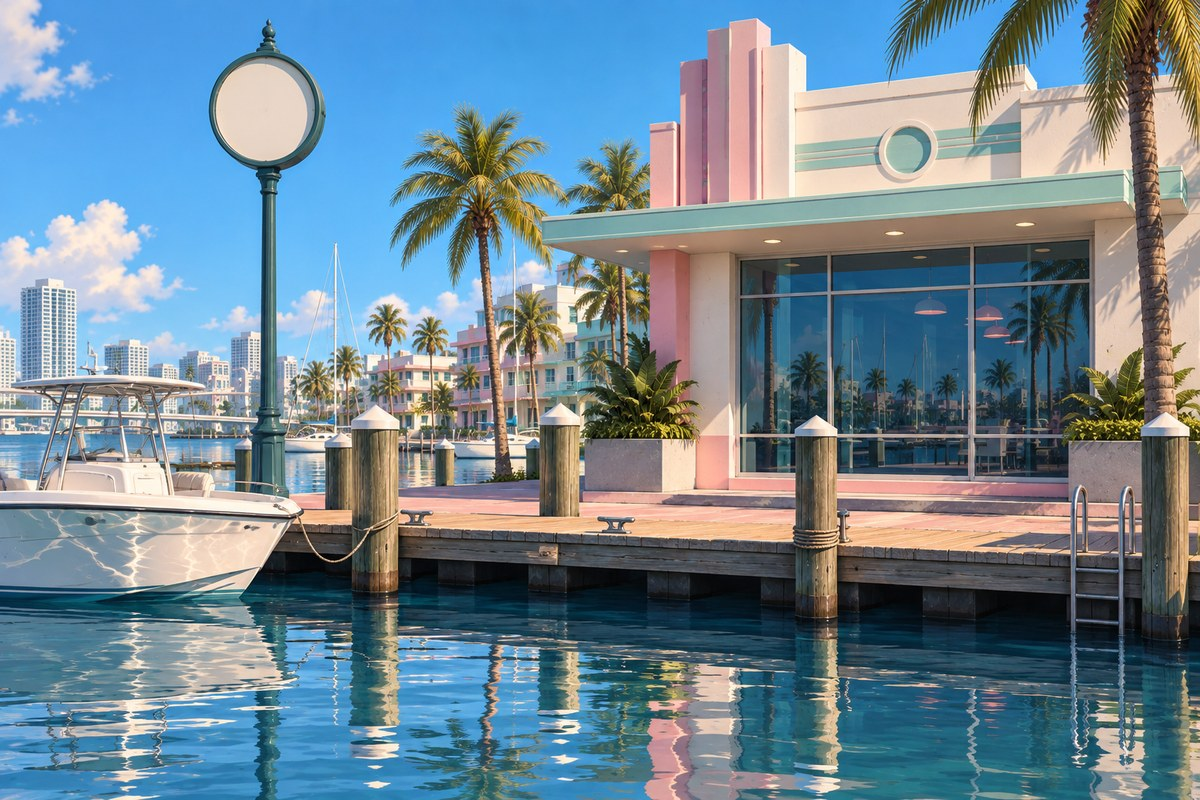
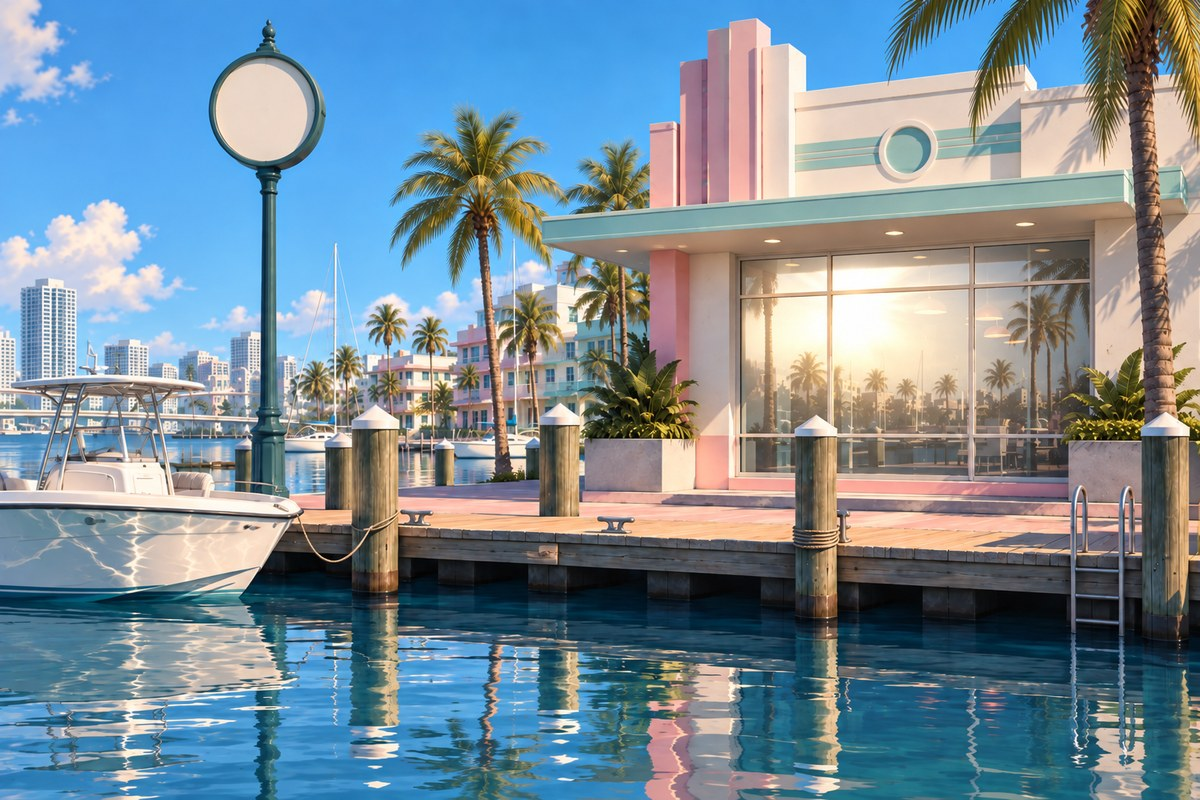
Put the sun on the marina window into the art instead of drawing it
The window was a white ball. A radial flare has no edges of its own, so at the
strength the level's mechanic needs it read as a lamp hanging off the front of
the building, and clipping it to the pane only turned it into a white ball with
a rectangle around it.

So the light is in the background now. The scene was regenerated from the
existing marina file as the reference, changing only the glass, which kept the
composition — every zone still lands where it was measured, checked against a
zone overlay on the new file. The evening pass goes over the whole frame and
then the pane is laid back down from the same file untouched, because a lit shop
window does not dim when the sky does.

The measurement the level turns on survives: the pane reads 0.83 mean luma
against 0.54 for the whole frame, so it is still the first thing in the
photograph to clip when the brightness comes up. Bench is 21/21 against the new
art. The glare helper has no callers left and is gone.

diff --git a/src/lib/levels/level3.ts b/src/lib/levels/level3.ts
@@ -19,20 +19,22 @@
  * Shapes are here as well as draw, because covering something is only cheap when
  * the colour you cover it with belongs in the photo.
  *
- * The glare pass matters mechanically. The window in the art is mid-toned, and
- * the cheapest solution needs it to be the first thing that clips when the whole
- * photo is brightened. So the glass is taken close to white and the ghost is set
- * just under it, close enough in tone that the two blow out together.
+ * The light on the glass matters mechanically, so it is painted into the
+ * background art rather than drawn on at runtime — a radial flare has no edges of
+ * its own and read as a lamp hanging off the front of the building. On the file
+ * the pane measures 0.83 mean luma against 0.54 for the whole frame, which is
+ * what the cheapest solution needs: brighten the photo and the glass is the first
+ * thing in it to clip. The ghost sits just under that, so the two go together.
  */
 
 import {
   backdrop,
-  glare,
   label,
   nightPass,
   place,
   placeFlipped,
   placeMirrored,
+  patch,
   reset,
   stamp,
   type Ctx,
@@ -53,7 +55,13 @@ const ZONES: ZoneMap = {
 /** His shape inside the glass — smaller, and set back into the window. */
 const GHOST = { x: 0.688, y: 0.345, w: 0.09, h: 0.165 };
 
-/** The glass itself, measured off the art. Light on a window stops at its frame. */
+/**
+ * The glass itself, measured off the art.
+ *
+ * The sun on this window is in the background art now rather than drawn on at
+ * runtime, which is the difference between a photograph of a lit window and a
+ * lamp stuck to the front of a building.
+ */
 const PANE = { x: 0.616, y: 0.3, w: 0.297, h: 0.3 };
 
 function composite(state: WorldState, ctx: Ctx) {
@@ -65,17 +73,14 @@ function composite(state: WorldState, ctx: Ctx) {
 
   nightPass(ctx, '#5a6699');
 
-  // Sun on the glass, then the ghost laid faintly over it.
-  //
-  // The tones here are chosen, not decorative. For the cheapest solution to work,
-  // raising the whole photo's brightness has to clip the glass *and* the shape in
-  // it at the same moment. Clipping at a lift of L needs both to sit above 1 - L,
-  // and the ghost still has to be visible at rest, so the pane is taken close to
-  // white and the ghost is set just under it — about a tenth of a stop down. Any
-  // darker and it survives the lift; any lighter and nobody can see him to begin
-  // with.
-  glare(ctx, ZONES.reflection, 0.83, 1.8, PANE);
-  if (state.reflection) placeMirrored(ctx, 'cut-subject', GHOST, 0.15);
+  // The sky goes to evening; the window does not. Sun is already on that glass in
+  // the art, so the pane is laid back over the evening pass untouched. Measured on
+  // the file, the pane reads 0.83 mean luma against 0.54 for the whole frame,
+  // which is what the cheapest solution needs: brighten the photo and the glass is
+  // the first thing in it to clip. The ghost sits just under that, close enough in
+  // tone that the two blow out together and faint enough to read as a reflection.
+  patch(ctx, 'bg-marina', PANE);
+  if (state.reflection) placeMirrored(ctx, 'cut-subject', GHOST, 0.17);
 
   label(
     ctx,

diff --git a/src/lib/draw.ts b/src/lib/draw.ts
@@ -25,6 +25,31 @@ export function backdrop(ctx: Ctx, name: AssetName) {
 }
 
 /**
+ * Redraw one rectangle of a background over whatever is now on top of it.
+ *
+ * Used to hold something back from a pass that covers the whole frame. A lit shop
+ * window does not dim when the sky does, so the evening multiply goes over
+ * everything and then the glass is laid back down exactly as the art has it.
+ * Nothing is invented — the same pixels, from the same file, in the same place.
+ */
+export function patch(ctx: Ctx, name: AssetName, z: Zone) {
+  const img = art(name);
+  const W = ctx.canvas.width;
+  const H = ctx.canvas.height;
+  ctx.drawImage(
+    img,
+    z.x * img.naturalWidth,
+    z.y * img.naturalHeight,
+    z.w * img.naturalWidth,
+    z.h * img.naturalHeight,
+    z.x * W,
+    z.y * H,
+    z.w * W,
+    z.h * H,
+  );
+}
+
+/**
  * Draw a cut-out into a zone.
  *
  * It fills the zone exactly rather than fitting inside it. The cut-outs are
@@ -65,53 +90,7 @@ export function placeFlipped(ctx: Ctx, name: AssetName, z: Zone, alpha = 1) {
   ctx.restore();
 }
 
-/**
- * Sun catching glass: solid across the zone, then falling away outside it.
- *
- * The shape does two jobs. Visually, light that fades at its edges reads as a
- * flare on a pane, where a hard-edged fill reads as a white billboard stuck on
- * the building. Mechanically, the inside has to be uniformly near-white, because
- * Level 3's cheapest solution works by the whole measured zone clipping at once
- * when the photo is brightened — a flare that dimmed toward the middle of the
- * zone would leave contrast behind and the flag would never fire.
- */
-export function glare(
-  ctx: Ctx,
-  z: Zone,
-  strength = 0.55,
-  spread = 1.8,
-  /**
-   * The pane the light is on.
-   *
-   * A radial flare has no edges of its own, so without this it runs off the glass
-   * and across the wall, the awning and the palm behind it — a ball of light
-   * hanging on the front of the building rather than sun caught in a window. Glass
-   * has a frame, and the light stops at it.
-   */
-  within?: Zone,
-) {
-  const W = ctx.canvas.width;
-  const H = ctx.canvas.height;
-  const cx = (z.x + z.w / 2) * W;
-  const cy = (z.y + z.h / 2) * H;
-  const inner = Math.hypot((z.w * W) / 2, (z.h * H) / 2);
-  const outer = inner * spread;
-  const g = ctx.createRadialGradient(cx, cy, 0, cx, cy, outer);
-  g.addColorStop(0, `rgba(255,255,255,${strength})`);
-  g.addColorStop(inner / outer, `rgba(255,255,255,${strength})`);
-  g.addColorStop(1, 'rgba(255,255,255,0)');
-  ctx.save();
-  if (within) {
-    ctx.beginPath();
-    ctx.rect(within.x * W, within.y * H, within.w * W, within.h * H);
-    ctx.clip();
-  }
-  ctx.globalCompositeOperation = 'screen';
-  ctx.fillStyle = g;
-  ctx.fillRect(cx - outer, cy - outer, outer * 2, outer * 2);
-  ctx.restore();
-}
-
+/** Writing burned onto the photograph: a sign, a clock face, a case number. */
 export function label(
   ctx: Ctx,
   text: string,
